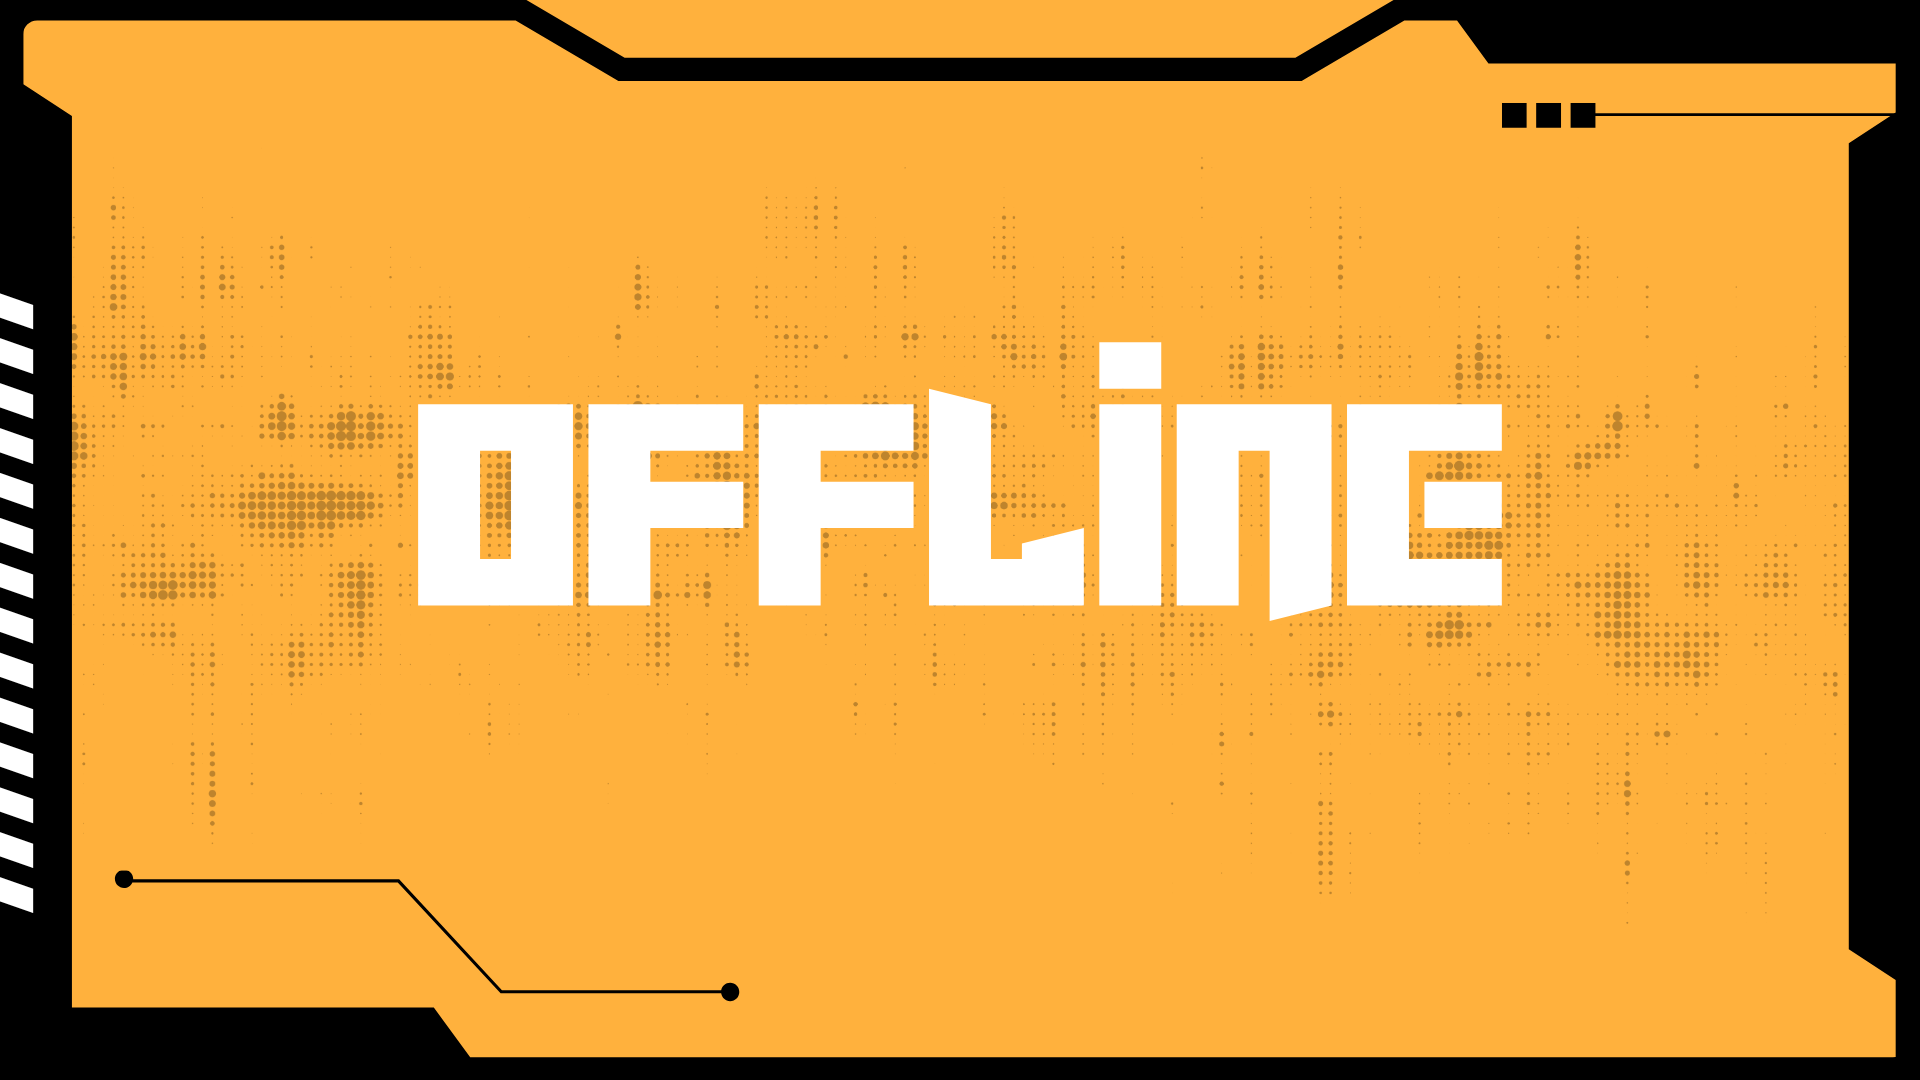
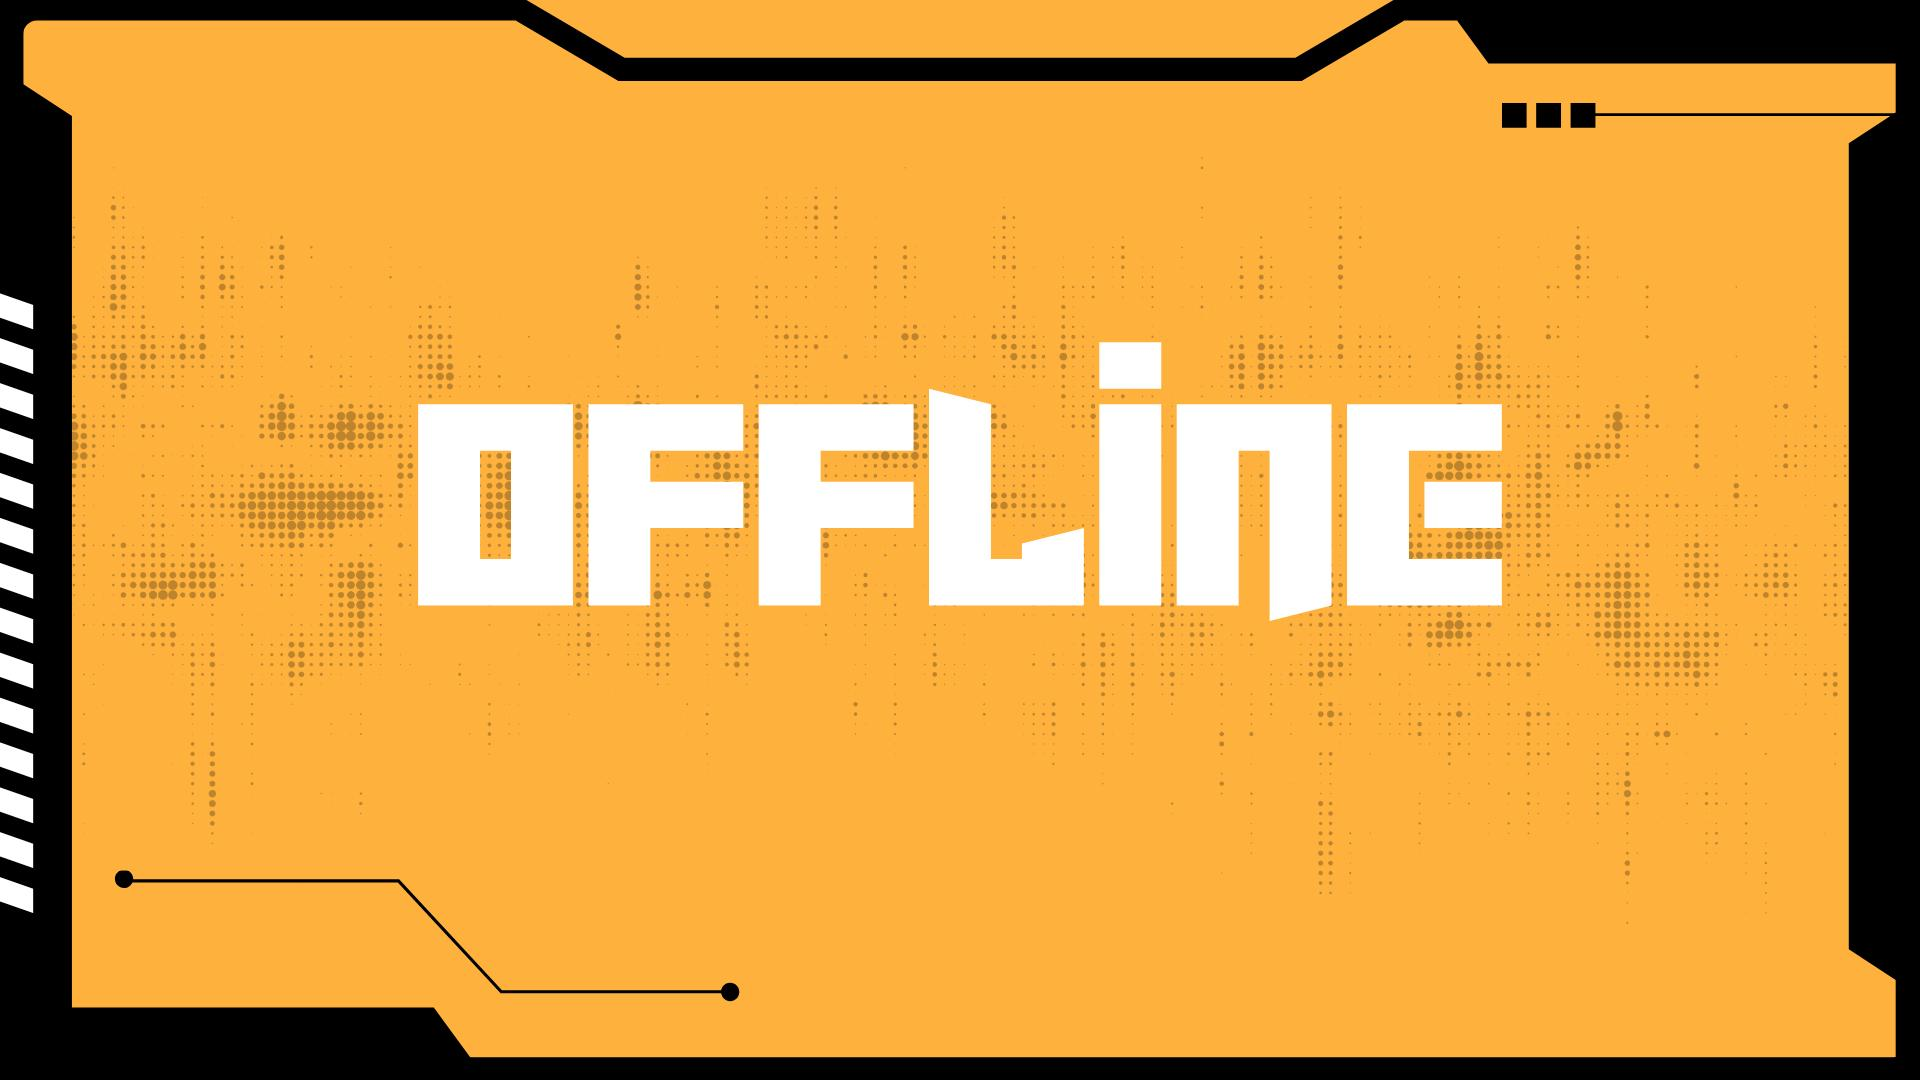
全面升級效能與平滑滾動驅動架構
- js/main.js: 整合 GSAP 官方推薦架構，改由 gsap.ticker 統一驅動 Lenis 影格時脈並設定 lagSmoothing(0) 消除滾動撕裂
- index.html: 實裝 Spotify 與 SoundCloud 播放器 IntersectionObserver 深度延遲載入，首屏避免 6.8MB 阻塞
- js/twitch-status.js: 直播播放器改為 Live 偵測觸發時動態掛載 iframe
- index.html: 非同步載入 Google Fonts 與 Material Symbols，消除阻斷算繪延遲
- images/: 深度無失真壓縮優化 offline.jpg 與 Foto_539.jpg，消除圖片傳輸效能警告

Generated with [Devin](https://devin.ai)

Changed region(s): [[0.7812, 0.0917, 0.8438, 0.1222]]

diff --git a/index.html b/index.html
@@ -159,7 +159,11 @@
     </script>
     <link rel="preconnect" href="https://fonts.googleapis.com">
     <link rel="preconnect" href="https://fonts.gstatic.com" crossorigin>
-    <link href="https://fonts.googleapis.com/css2?family=Archivo+Black&family=Hanken+Grotesk:wght@400;500;700&family=JetBrains+Mono:wght@400;500;700&display=swap" rel="stylesheet">
+    <link rel="preload" as="style" href="https://fonts.googleapis.com/css2?family=Archivo+Black&family=Hanken+Grotesk:wght@400;500;700&family=JetBrains+Mono:wght@400;500;700&display=swap">
+    <link rel="stylesheet" href="https://fonts.googleapis.com/css2?family=Archivo+Black&family=Hanken+Grotesk:wght@400;500;700&family=JetBrains+Mono:wght@400;500;700&display=swap" media="print" onload="this.media='all'">
+    <noscript>
+        <link rel="stylesheet" href="https://fonts.googleapis.com/css2?family=Archivo+Black&family=Hanken+Grotesk:wght@400;500;700&family=JetBrains+Mono:wght@400;500;700&display=swap">
+    </noscript>
     <link rel="stylesheet" href="css/variables.css?v=1.3.1">
     <link rel="stylesheet" href="css/global.css?v=1.3.1">
     <link rel="stylesheet" href="css/components.css?v=1.3.1">
@@ -415,11 +419,23 @@
                             titleElement.innerHTML = `Für die vollständige Version besuche mein <a href="https://open.spotify.com/user/eluw6nthyi6sd3wjcydx6rojx?nd=1&dlsi=2defb229291d40e7" target="_blank" rel="noopener noreferrer" class="spotify-link">Spotify</a>`;
                         }
                         
-                        // Update iframe src
+                        // Update iframe src when near viewport
                         const iframe = document.getElementById('spotify-iframe');
                         if (iframe) {
                             const embedUrl = `https://open.spotify.com/embed/playlist/${playlist.id}?utm_source=generator&theme=0&go=1&sp_cid=6a44e72ca19d63d9a09055fb8b8df3ac&t=11&nd=1&dlsi=bad78d7e70aa4a2e`;
-                            iframe.src = embedUrl;
+                            if ('IntersectionObserver' in window) {
+                                const observer = new IntersectionObserver((entries, obs) => {
+                                    entries.forEach(entry => {
+                                        if (entry.isIntersecting) {
+                                            iframe.src = embedUrl;
+                                            obs.unobserve(iframe);
+                                        }
+                                    });
+                                }, { rootMargin: '300px' });
+                                observer.observe(iframe);
+                            } else {
+                                iframe.src = embedUrl;
+                            }
                         }
                         
                         console.log(`Loaded playlist for day ${currentDay}: ${playlist.title}`);
@@ -442,7 +458,25 @@
                 <!-- SoundCloud Album Embed -->
                 <div class="soundcloud-embed-container">
                     <h2 class="soundcloud-title"><a href="https://hypeddit.com/u1shci" target="_blank" rel="noopener noreferrer" class="soundcloud-album-link">Mind & Soul - Album (Click to view)</a></h2>
-                    <iframe title="SoundCloud Mind &amp; Soul Album Player" width="100%" height="450" scrolling="no" frameborder="no" allow="autoplay; encrypted-media" loading="lazy" src="https://w.soundcloud.com/player/?url=https%3A//api.soundcloud.com/playlists/soundcloud%253Aplaylists%253A2079462015&color=%23d3c3c5&auto_play=false&hide_related=false&show_comments=true&show_user=true&show_reposts=false&show_teaser=true"></iframe>
+                    <iframe id="soundcloud-iframe" title="SoundCloud Mind &amp; Soul Album Player" width="100%" height="450" scrolling="no" frameborder="no" allow="autoplay; encrypted-media" loading="lazy" data-src="https://w.soundcloud.com/player/?url=https%3A//api.soundcloud.com/playlists/soundcloud%253Aplaylists%253A2079462015&color=%23d3c3c5&auto_play=false&hide_related=false&show_comments=true&show_user=true&show_reposts=false&show_teaser=true" src=""></iframe>
+                    <script>
+                        document.addEventListener('DOMContentLoaded', function() {
+                            const scIframe = document.getElementById('soundcloud-iframe');
+                            if (scIframe && 'IntersectionObserver' in window) {
+                                const scObserver = new IntersectionObserver((entries, obs) => {
+                                    entries.forEach(entry => {
+                                        if (entry.isIntersecting) {
+                                            scIframe.src = scIframe.getAttribute('data-src');
+                                            obs.unobserve(scIframe);
+                                        }
+                                    });
+                                }, { rootMargin: '300px' });
+                                scObserver.observe(scIframe);
+                            } else if (scIframe) {
+                                scIframe.src = scIframe.getAttribute('data-src');
+                            }
+                        });
+                    </script>
                     <div class="soundcloud-credits">
                         <a href="https://soundcloud.com/wlt-records" title="We Love Trance Records" target="_blank" style="color: #cccccc; text-decoration: none;">We Love Trance Records</a> · <a href="https://soundcloud.com/wlt-records/sets/mind-soul-417101974" title="Mind &amp; Soul" target="_blank" style="color: #cccccc; text-decoration: none;">Mind &amp; Soul</a>
                     </div>
@@ -468,7 +502,8 @@
                         <iframe
                             title="Twitch Live Stream Player"
                             style="width:100%; height:auto; aspect-ratio:16/9;"
-                            src="https://player.twitch.tv/?channel=djkridp&parent=djkridp.vercel.app&parent=localhost&parent=127.0.0.1"
+                            data-src="https://player.twitch.tv/?channel=djkridp&parent=djkridp.vercel.app&parent=localhost&parent=127.0.0.1"
+                            src=""
                             width="100%"
                             height="450"
                             frameBorder="0"
@@ -631,7 +666,11 @@
         </div>
     </div>
 
-    <link href="https://fonts.googleapis.com/css2?family=Material+Symbols+Outlined:opsz,wght,FILL,GRAD@20..48,100..700,0..1,-50..200&display=swap" rel="stylesheet">
+    <link rel="preload" as="style" href="https://fonts.googleapis.com/css2?family=Material+Symbols+Outlined:opsz,wght,FILL,GRAD@20..48,100..700,0..1,-50..200&display=swap">
+    <link href="https://fonts.googleapis.com/css2?family=Material+Symbols+Outlined:opsz,wght,FILL,GRAD@20..48,100..700,0..1,-50..200&display=swap" rel="stylesheet" media="print" onload="this.media='all'">
+    <noscript>
+        <link href="https://fonts.googleapis.com/css2?family=Material+Symbols+Outlined:opsz,wght,FILL,GRAD@20..48,100..700,0..1,-50..200&display=swap" rel="stylesheet">
+    </noscript>
     
     <!-- GSAP Core -->
     <script src="https://cdnjs.cloudflare.com/ajax/libs/gsap/3.15.0/gsap.min.js"></script>

diff --git a/js/main.js b/js/main.js
@@ -5,6 +5,11 @@ document.addEventListener('DOMContentLoaded', () => {
       history.scrollRestoration = 'manual';
     }
 
+    // Register GSAP ScrollTrigger
+    if (typeof gsap !== 'undefined' && typeof ScrollTrigger !== 'undefined') {
+      gsap.registerPlugin(ScrollTrigger);
+    }
+
     if (typeof Lenis !== 'undefined') {
       const lenis = new Lenis({
         duration: 1.1,
@@ -12,19 +17,22 @@ document.addEventListener('DOMContentLoaded', () => {
       });
       window.lenis = lenis;
 
-      function raf(time) {
-        lenis.raf(time);
+      // GSAP 官方整合架構：由 gsap.ticker 統一驅動 Lenis 影格時脈
+      if (typeof gsap !== 'undefined') {
+        lenis.on('scroll', ScrollTrigger.update);
+        gsap.ticker.add((time) => {
+          lenis.raf(time * 1000);
+        });
+        // 關閉 lagSmoothing 避免滾動中發生影格補償跳動
+        gsap.ticker.lagSmoothing(0);
+      } else {
+        function raf(time) {
+          lenis.raf(time);
+          requestAnimationFrame(raf);
+        }
         requestAnimationFrame(raf);
       }
-      requestAnimationFrame(raf);
-
-      if (typeof ScrollTrigger !== 'undefined') {
-        lenis.on('scroll', ScrollTrigger.update);
-      }
     }
-
-    // Register GSAP ScrollTrigger
-    gsap.registerPlugin(ScrollTrigger);
 
     // GSAP Preset 3: Setlist Staggered Reveal (齒輪滾輪瀑布揭示)
     const prefersReducedMotion = window.matchMedia('(prefers-reduced-motion: reduce)').matches;

diff --git a/js/twitch-status.js b/js/twitch-status.js
@@ -52,15 +52,13 @@ class TwitchStatusChecker {
     }
 
     ensurePlayerLoaded() {
-        // iframe-Player wird automatisch geladen, keine zusätzliche Initialisierung erforderlich
-        console.log('Twitch iframe-Player ist bereit');
-        
-        // Sicherstellen, dass der iframe korrekt geladen ist
-        const iframe = this.liveView.querySelector('iframe[src*="player.twitch.tv"]');
+        const iframe = this.liveView.querySelector('iframe');
         if (iframe) {
-            console.log('Twitch Player iframe gefunden und bereit');
-        } else {
-            console.log('Twitch Player iframe nicht gefunden');
+            const dataSrc = iframe.getAttribute('data-src');
+            if (dataSrc && !iframe.getAttribute('src')) {
+                iframe.setAttribute('src', dataSrc);
+                console.log('Twitch iframe src dynamisch gesetzt (Live-Modus)');
+            }
         }
     }
 
